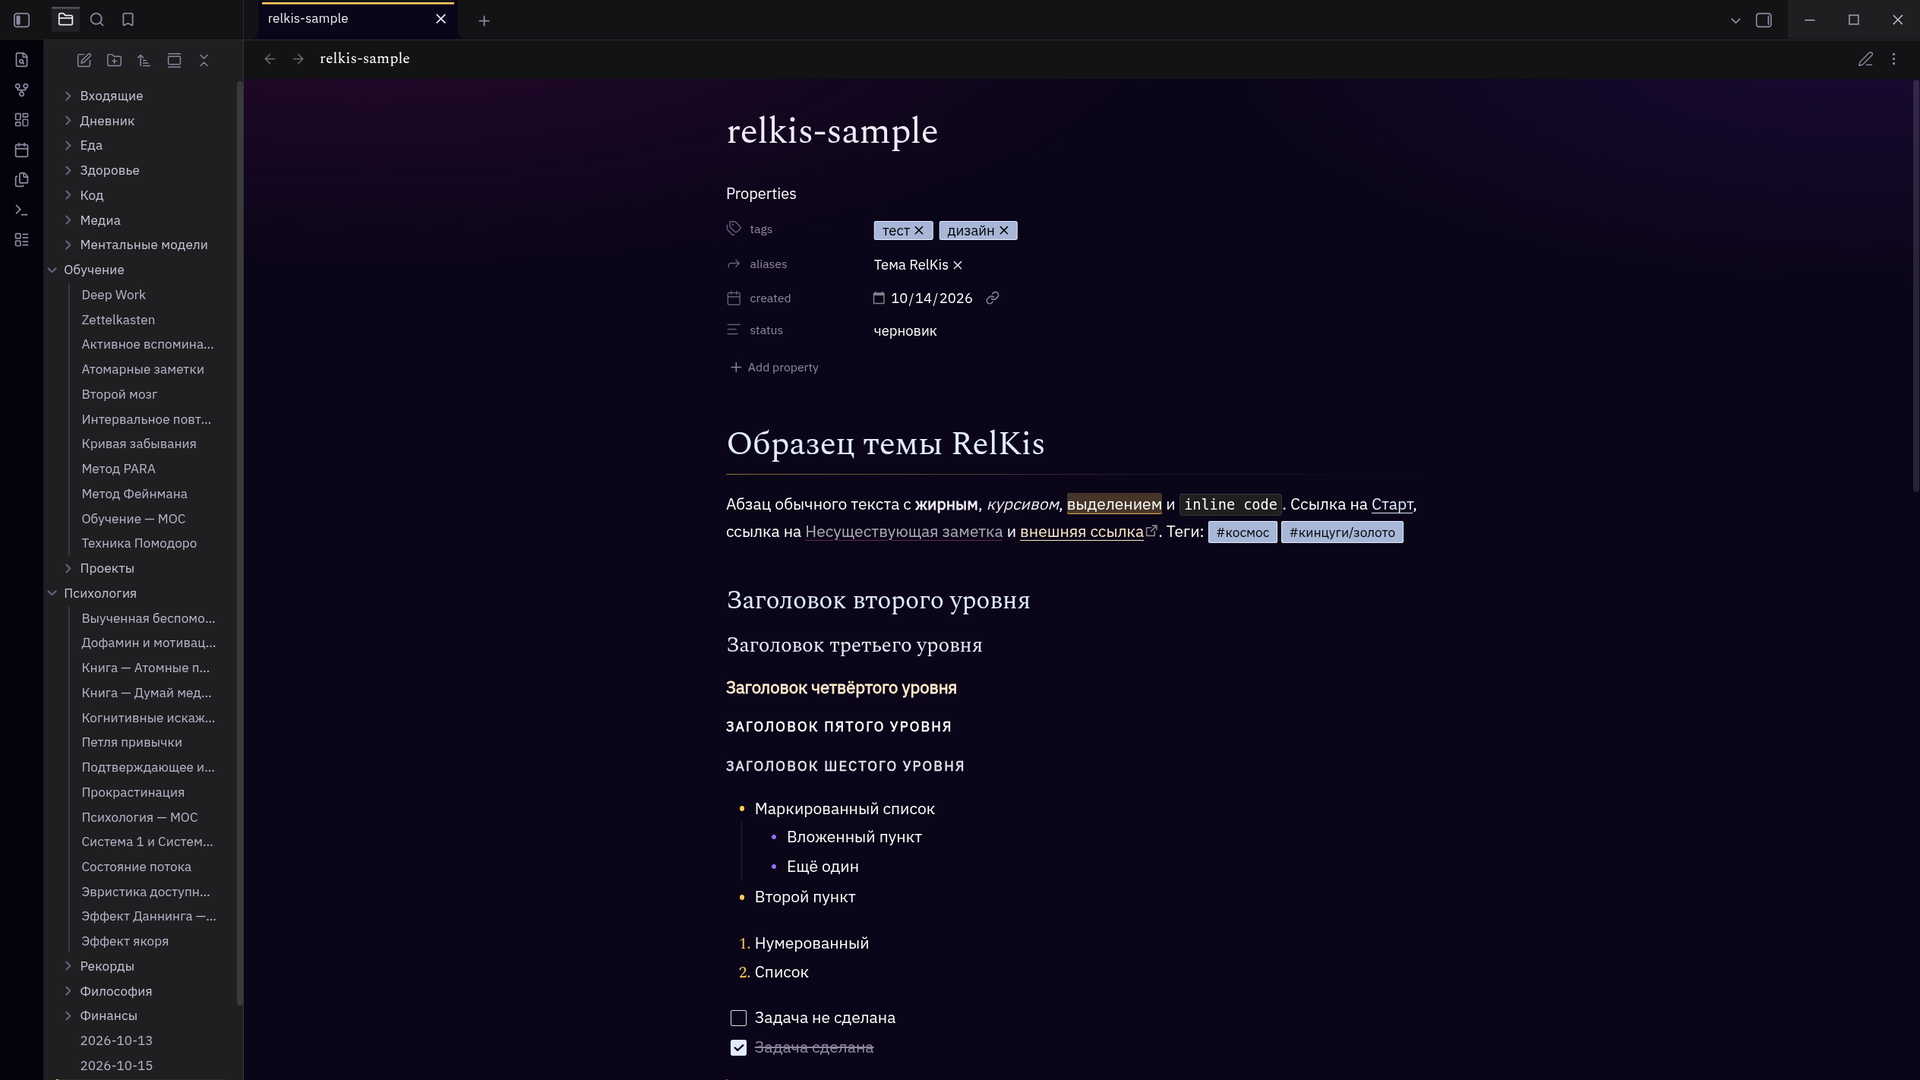
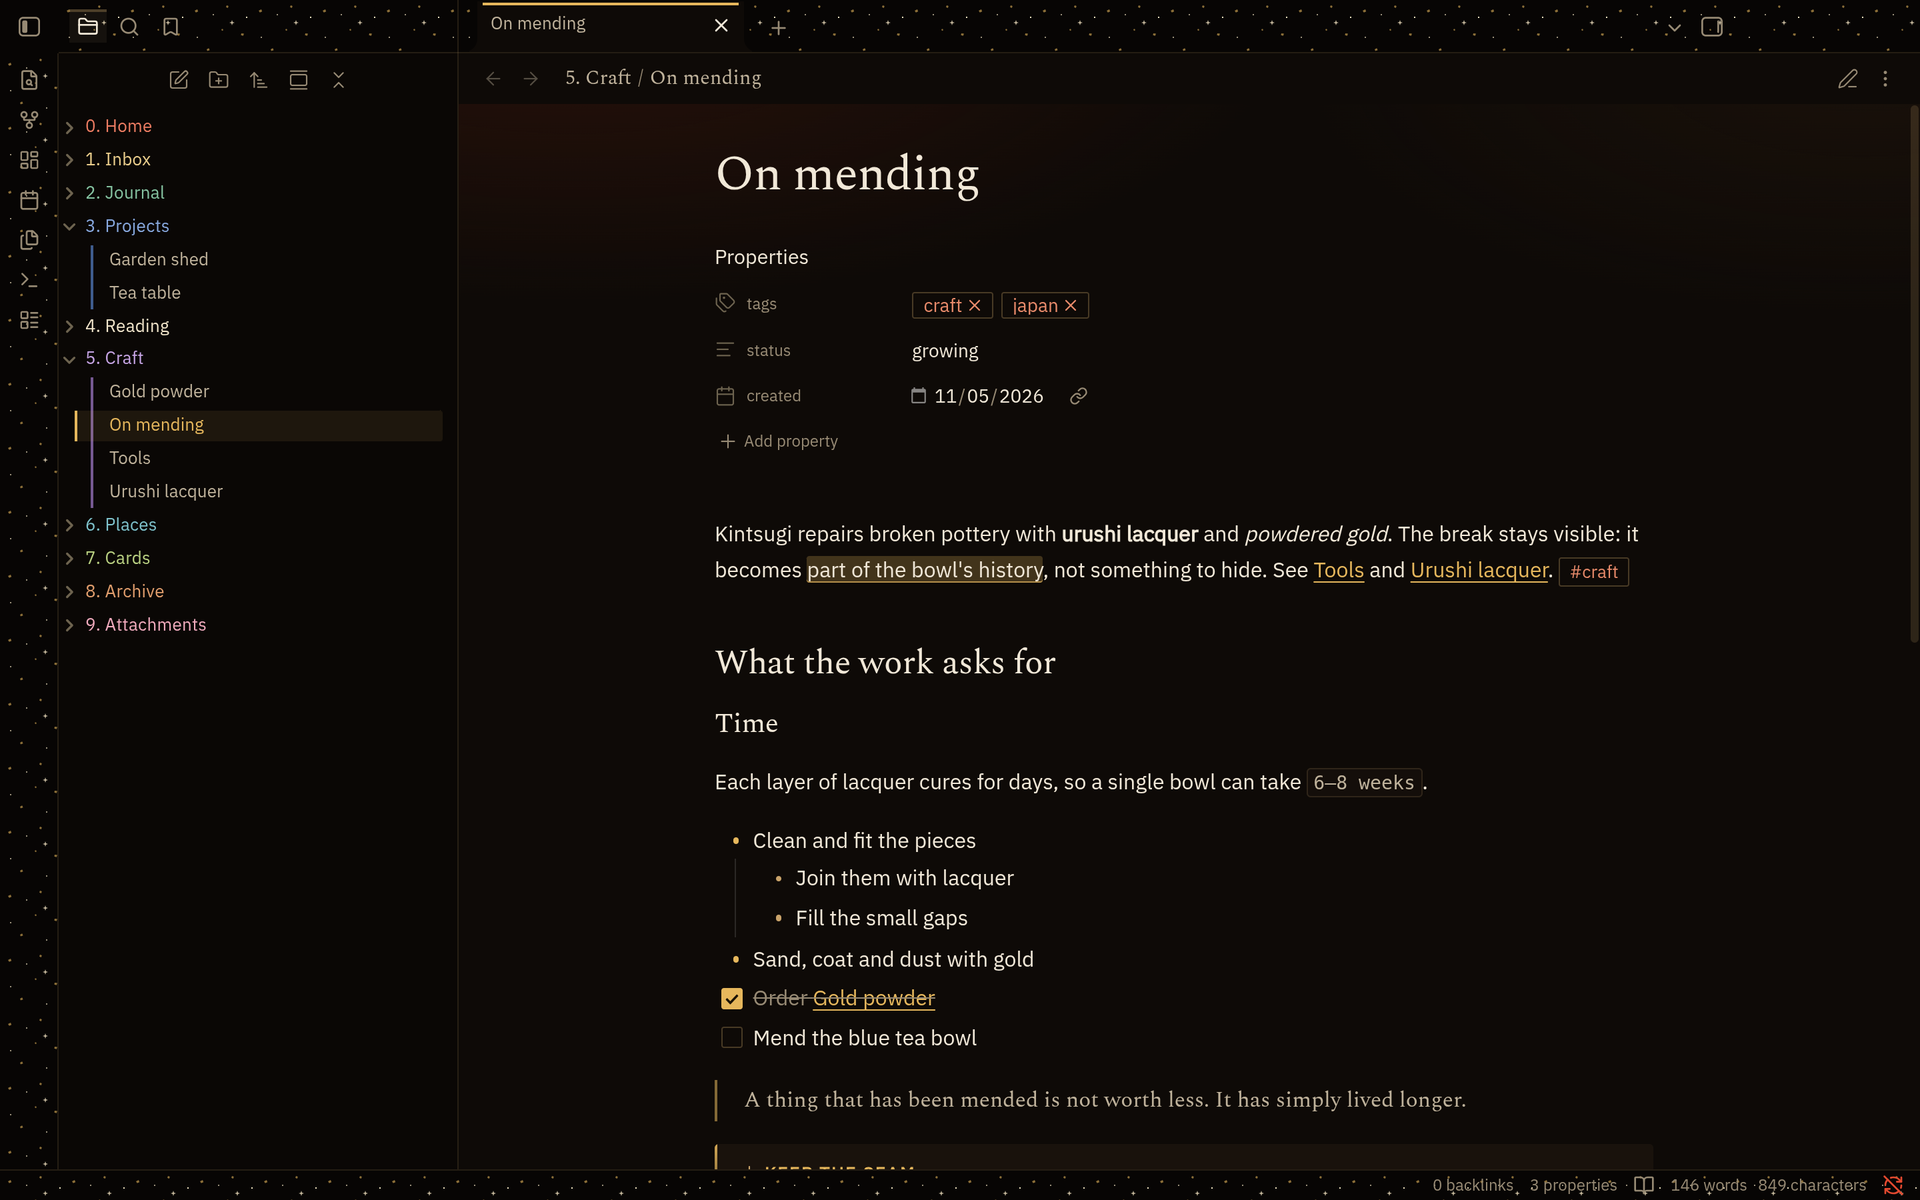
New screenshots: all eleven looks on a demo vault

diff --git a/README.ru.md b/README.ru.md
@@ -5,7 +5,7 @@
 Спокойная тема для Obsidian из японских материалов: одиннадцать обликов, от фиолетового с золотом ночью до рисовой
 бумаги и туши днём.
 
-![RelKis в тёмной схеме](images/preview.png)
+![Все одиннадцать обликов RelKis](images/preview.png)
 
 ## Что оформлено
 
@@ -21,7 +21,7 @@
   «уменьшение движения», ничего не анимируется.
 - **Без сети.** Шрифты встроены, тема ничего не загружает из интернета.
 
-![Свойства и заголовки](images/properties.png)
+![Облик Кинцуги](images/properties.png)
 
 ## Установка
 

diff --git a/README.md b/README.md
@@ -5,7 +5,7 @@
 A calm Obsidian theme built from Japanese materials: eleven looks, from violet and gold at night to rice paper and
 ink by day.
 
-![RelKis in dark mode](images/preview.png)
+![All eleven looks of RelKis](images/preview.png)
 
 ## What it covers
 
@@ -21,7 +21,7 @@ ink by day.
   in the system, nothing animates.
 - **Offline.** The fonts are embedded, so the theme loads nothing from the network.
 
-![Properties and headings](images/properties.png)
+![The Kintsugi look](images/properties.png)
 
 ## Install
 
